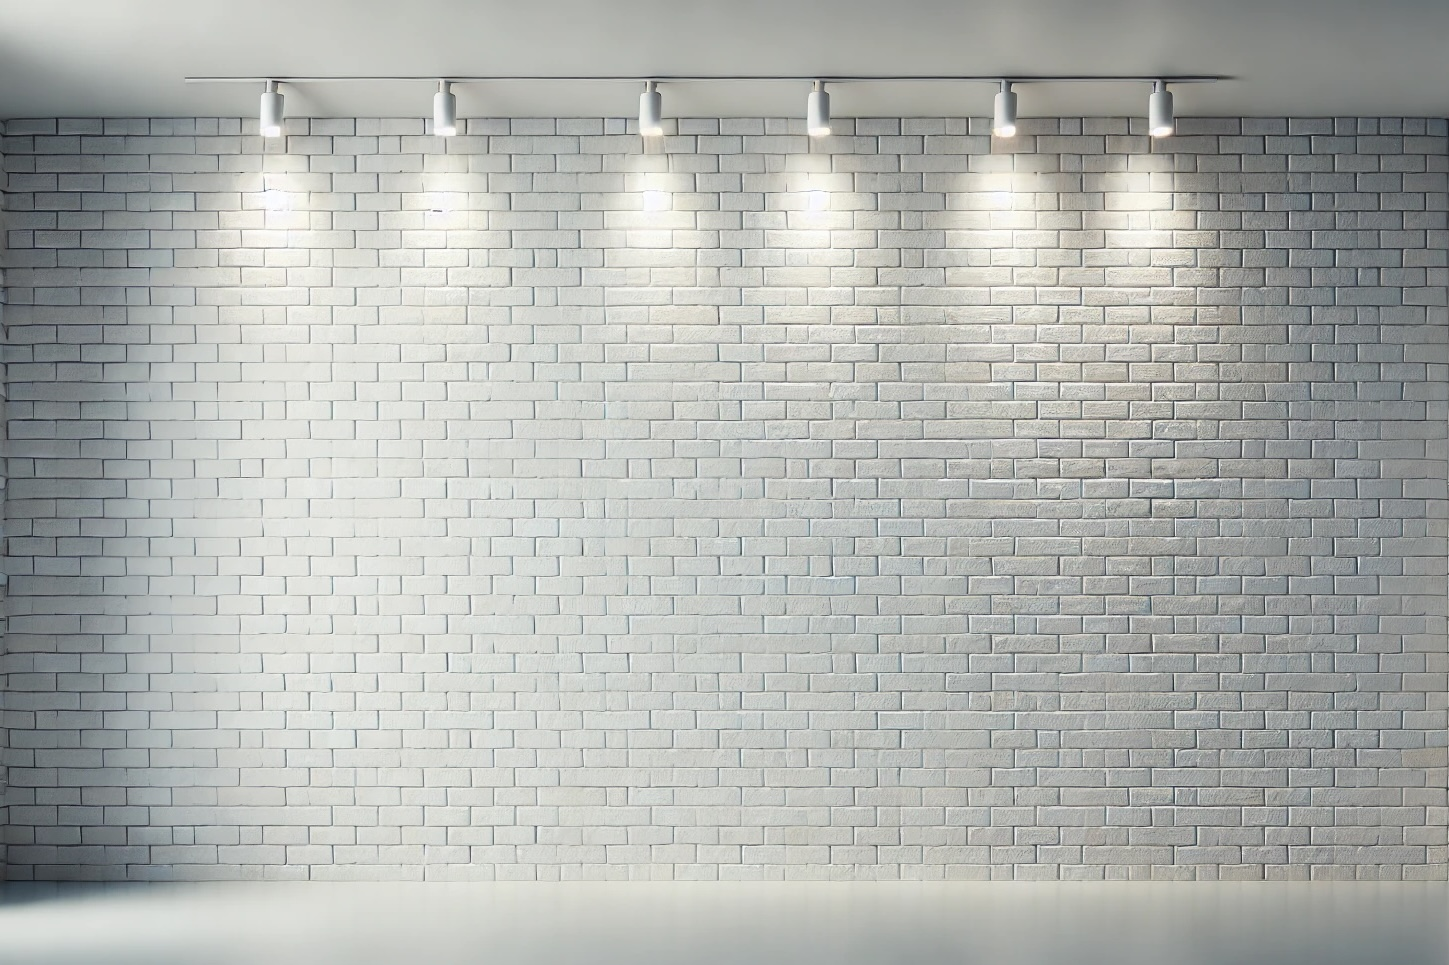
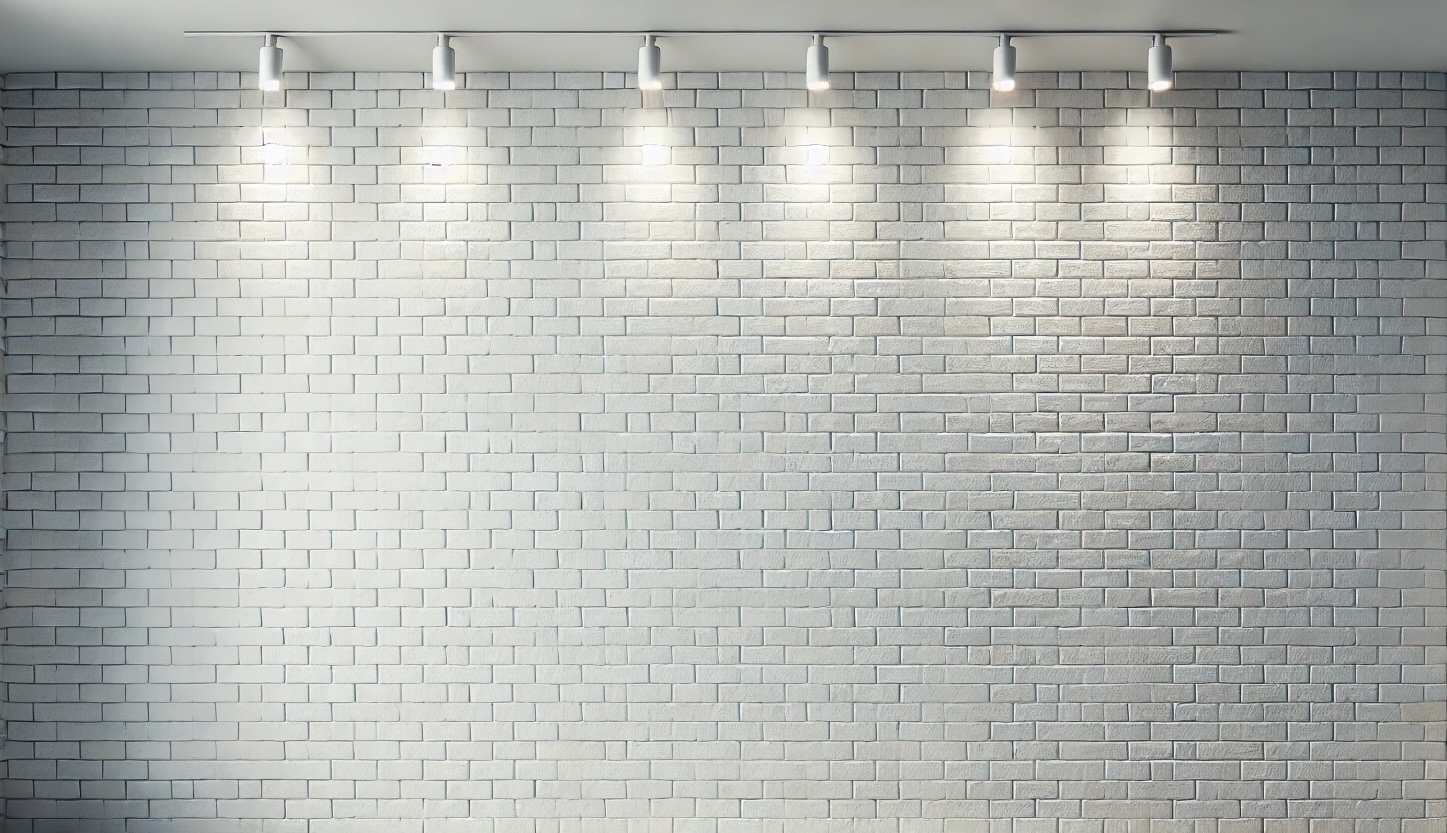
maint: added second background in images_by_theme css addition to fix layout issues oon smaller non-portrait screens, fixed product_detail.html not rendering due to mismatch dash vs. underscore

Changed region(s): [[0.0, 0.0, 1.0, 1.0]]

diff --git a/shop/static/shop/css/shop.css b/shop/static/shop/css/shop.css
@@ -37,11 +37,26 @@
     bottom: 20px;
     right: 20px;
     padding: 5px 10px;
-    background-color: #000;
+    background-color: #403e3e;
     color: #fff;
     border: none;
     border-radius: 5px;
     cursor: pointer;
+    opacity: 0;
+    visibility: hidden;
+    transition: opacity 0.3s ease-in-out, visibility 0.3s ease-in-out;
+}
+
+#backToGallery {
+    position: fixed;
+    bottom: 20px;
+    left: 20px;
+    padding: 5px 10px;
+    background-color: #403e3e;
+    color: #fff;
+    border-radius: 5px;
+    cursor: pointer;
+    text-decoration: none;
     opacity: 0;
     visibility: hidden;
     transition: opacity 0.3s ease-in-out, visibility 0.3s ease-in-out;
@@ -66,7 +81,7 @@ h1 {
 
 .card-img {
     object-fit: cover;
-    height: 50vh;
+    height: 30vh;
     padding: 5px;
 }
 
@@ -88,90 +103,50 @@ h3.card-title {
 
 /* Images_by_Theme page styles */
 .gallery-background {
-    background-image: url('../images/gallery_background_xl_screens.jpg');
+    background-image: url('../images/gallery_background_2.jpg');
     background-size: cover;
     background-position: center;
     background-repeat: no-repeat;
+    min-height: 80vh;
+
 }
 
 h1.heading {
+    margin-top: 11rem;
     text-shadow: 0 0 5px #fff,
                  0 0 10px #0ff,
                  0 0 20px #0ff,
                  0 0 40px #0ff;
 }
 
-.image-card-container {
+.image-card {
+    position: relative;
     display: flex;
     flex-direction: column;
-    justify-content: center;
-    height: 100%;
-    align-items: center;
-    text-align: center;
-    width: 100%;
-    max-width: 1200px;
-    margin: 0 auto;
-    padding: 4vh 1rem;
-}
-
-.image-card {
-    width: 80%;
-    padding: 5px;
-    max-width: 90%;
+    background-color: #ddd;
+    border: 8px solid #000;
+    overflow: hidden;
+    gap: 10px;
+    margin: 13px;
+    padding: 2px 2px 20px 2px;
+    box-shadow: 3px 3px 10px rgba(0, 0, 0, 0.3);
+    transition: min-height 0.3s ease-in-out;
 }
 
 .image-card img {
+    height: 50vh;
     width: 100%;
-    height: auto;
-    object-fit: contain;
+    padding: 5px;
 }
 
-/* Responsive Adjustments */
+/* Responsiveness Adjustement */
+@media (min-width: 1024px) {
 
-@media (min-width: 576px) {
-    #image-themes {
-        padding-top: 6vh;
-        padding-bottom: 6vh;
+    .gallery-background {
+        background-image: url('../images/gallery_background_xl_screens.jpg');
     }
-
-    .card-img {
-        height: auto;
-        max-height: 50vh;
-    }
-
-    .image-card {
-        width: 90%;
-    }
-}
-
-@media (min-width: 769px) and (max-width: 1199px) {
-    #image-themes {
-        padding-top: 8vh;
-        padding-bottom: 8vh;
-    }
-
-    .card-img {
-        height: auto;
-        max-height: 60vh;
-    }
-
-    .image-card {
-        width: 70%;
-    }
-}
-
-@media (min-width: 1200px) {
-    #image-themes {
-        padding-top: 10vh;
-        padding-bottom: 10vh;
-    }
-
-    .card-img {
-        height: auto;
-        max-height: 65vh;
-    }
-
-    .image-card {
-        width: 60%;
+    
+    h1.heading {
+        margin: 17rem auto 3rem;;
     }
 }

diff --git a/shop/templates/shop/images_by_theme.html b/shop/templates/shop/images_by_theme.html
@@ -10,47 +10,33 @@
 {% endblock %}
 
 {% block content %}
-<section id="image-themes" class="image-card-container container-fluid gallery-background py-4">
 
-    <div class="row g-4 justify-content-center">
-        {% for image in images %}
-        <div class="image-card col-12 col-md-6 col-xl-4">
-            <h1 class="heading text-center">{{ theme.title }}</h1>
-            <div class="card shadow-md">
-                <a href="{% url 'product_detail' image.id %}">
-                    <img src="{{ image.image_preview.url|default:'no-image-added.jpg' }}" class="card-img" alt="{{ image.title }}">
-                </a>
-                <div class="card-body d-flex flex-column">
-                    <h4 class="card-title">{{ image.title }}</h4>
-                    <p class="text-muted">Price: from €{{ image.price }}</p>
+<section class="container-fluid gallery-background py-4">
+    <h1 class="heading text-center">{{ theme.title }}</h1>
+        <div class="row g-4 justify-content-center">
+            {% for image in images %}
+            <div class="col-12 col-sm-6 col-md-6 col-xl-4">
+                <div class="image-card shadow-md">
+                    <a href="{% url 'product_detail' image.id %}">
+                        <img src="{{ image.image_preview.url|default:'no-image-added.jpg' }}" class="card-img" alt="{{ image.title }}">
+                    </a>
+                    <div class="card-body d-flex flex-column text-center">
+                        <h4 class="card-title">{{ image.title }}</h4>
+                        <p class="text-muted">Price: from €{{ image.price }}</p>
+                    </div>
                 </div>
             </div>
+            {% empty %}
+            <hr>
+            <p class="text-center"><strong>No images available in this theme.</strong></p>
+            {% endfor %}
         </div>
-        {% empty %}
-        <hr>
-        <p class="text-center"><strong>No images available in this theme.</strong></p>
-        {% endfor %}
-    </div>
-
-    <!-- Pagination -->
-    <div class="d-flex flex-row">
-        <ul class="pagination justify-content-center">
-            {% if page_obj.has_previous %}
-            <li>
-                <a href="?page={{ page_obj.previous_page_number }}" class="page-link" aria-label="Previous Page">
-                    &laquo; Back to Gallery</a>
-            </li>
-            {% endif %}
-            {% if page_obj.has_next %}
-            <li>
-                <a href="" class="page-link" aria-label="Add product to cart">
-                    <i class="fa-solid fa-cart-shopping"></i>Add to cart</a>
-            </li>
-            {% endif %}
-        </ul>
-    </div>
 </section>
 
+<!-- Back to Gallery button -->
+<a href="{% url 'gallery_page' %}" id="backToGallery" class="back-to-top-btn" aria-label="Back to Gallery">
+    ⬅ Back to Gallery
+</a>
 <!-- Back to Top Button -->
-<button id="backToTop" class="back-to-top-btn">⬆ Back to Top</button>
+<button id="backToTop" class="back-to-top-btn" aria-label="back to top button">⬆ Back to Top</button>
 {% endblock %}

diff --git a/shop/static/shop/js/shop_script.js b/shop/static/shop/js/shop_script.js
@@ -22,18 +22,19 @@ document.addEventListener("DOMContentLoaded", function () {
 
     // Handles click event for Back-to-top button
     const backToTopBtn = document.getElementById("backToTop");
+    const backToGalleryBtn = document.getElementById("backToGallery");
 
     window.addEventListener("scroll", function () {
         if (window.scrollY > 200) {
             backToTopBtn.style.opacity = "1";
             backToTopBtn.style.visibility = "visible";
+            backToGalleryBtn.style.opacity = "1";
+            backToGalleryBtn.style.visibility = "visible";
         } else {
             backToTopBtn.style.opacity = "0";
             backToTopBtn.style.visibility = "hidden";
+            backToGalleryBtn.style.opacity = "0";
+            backToGalleryBtn.style.visibility = "hidden";
         }
-    });
-
-    backToTopBtn.addEventListener("click", function () {
-        window.scrollTo({ top: 0, behavior: "smooth" });
     });
 });

diff --git a/shop/templates/shop/gallery_page.html b/shop/templates/shop/gallery_page.html
@@ -10,7 +10,7 @@
 {% endblock %}
 
 {% block content %}
-<artcile id="image-themes" aria-label="gallery page with image categories and link to product catalogue">
+<article aria-label="gallery page with image categories and link to product catalogue">
     <section class="container my-5" aria-label="section with search bar">
         <h1 class="text-center">Gallery</h1>
         
@@ -53,5 +53,5 @@
 
     <!-- Back to Top Button -->
     <button id="backToTop" class="back-to-top-btn">⬆ Back to Top</button>
-</artcile>
+</article>
 {% endblock %}

diff --git a/shop/urls.py b/shop/urls.py
@@ -1,7 +1,9 @@
 from django.urls import path
 from .views import gallery_page, images_by_theme
+from products.views import product_detail
 
 urlpatterns = [
     path("gallery/", gallery_page, name="gallery_page"),
     path("gallery/<slug:theme_slug>/", images_by_theme, name="images_by_theme"),
+    path("<int:product_id>/", product_detail, name="product_detail"),
 ]
